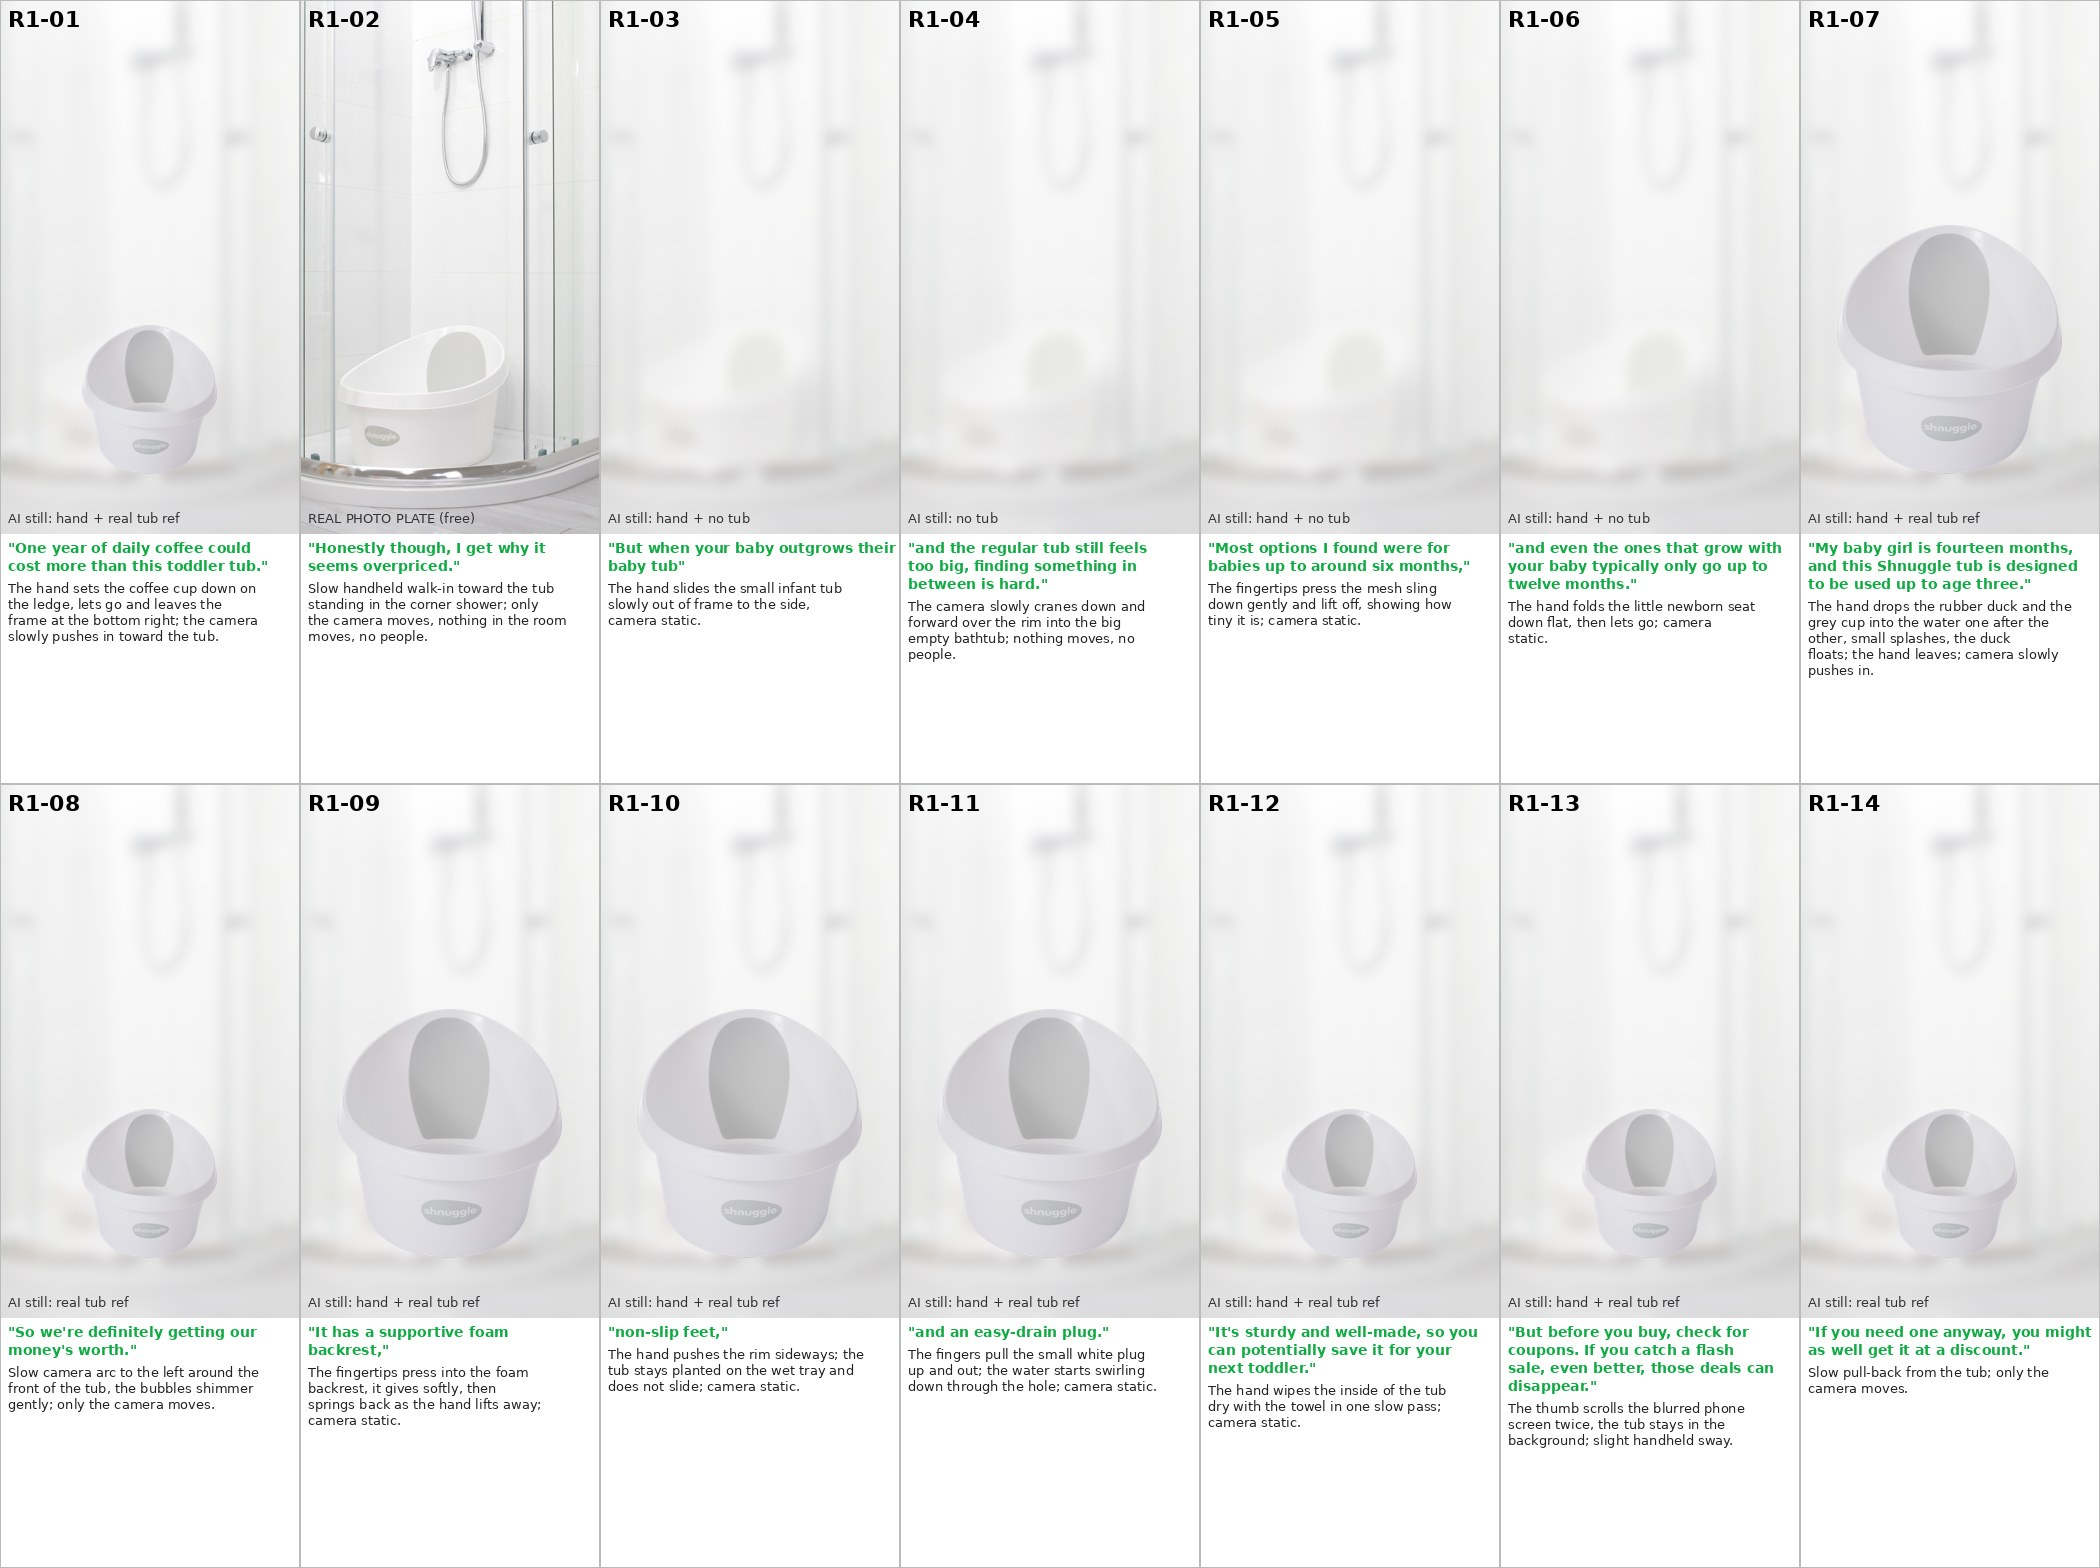
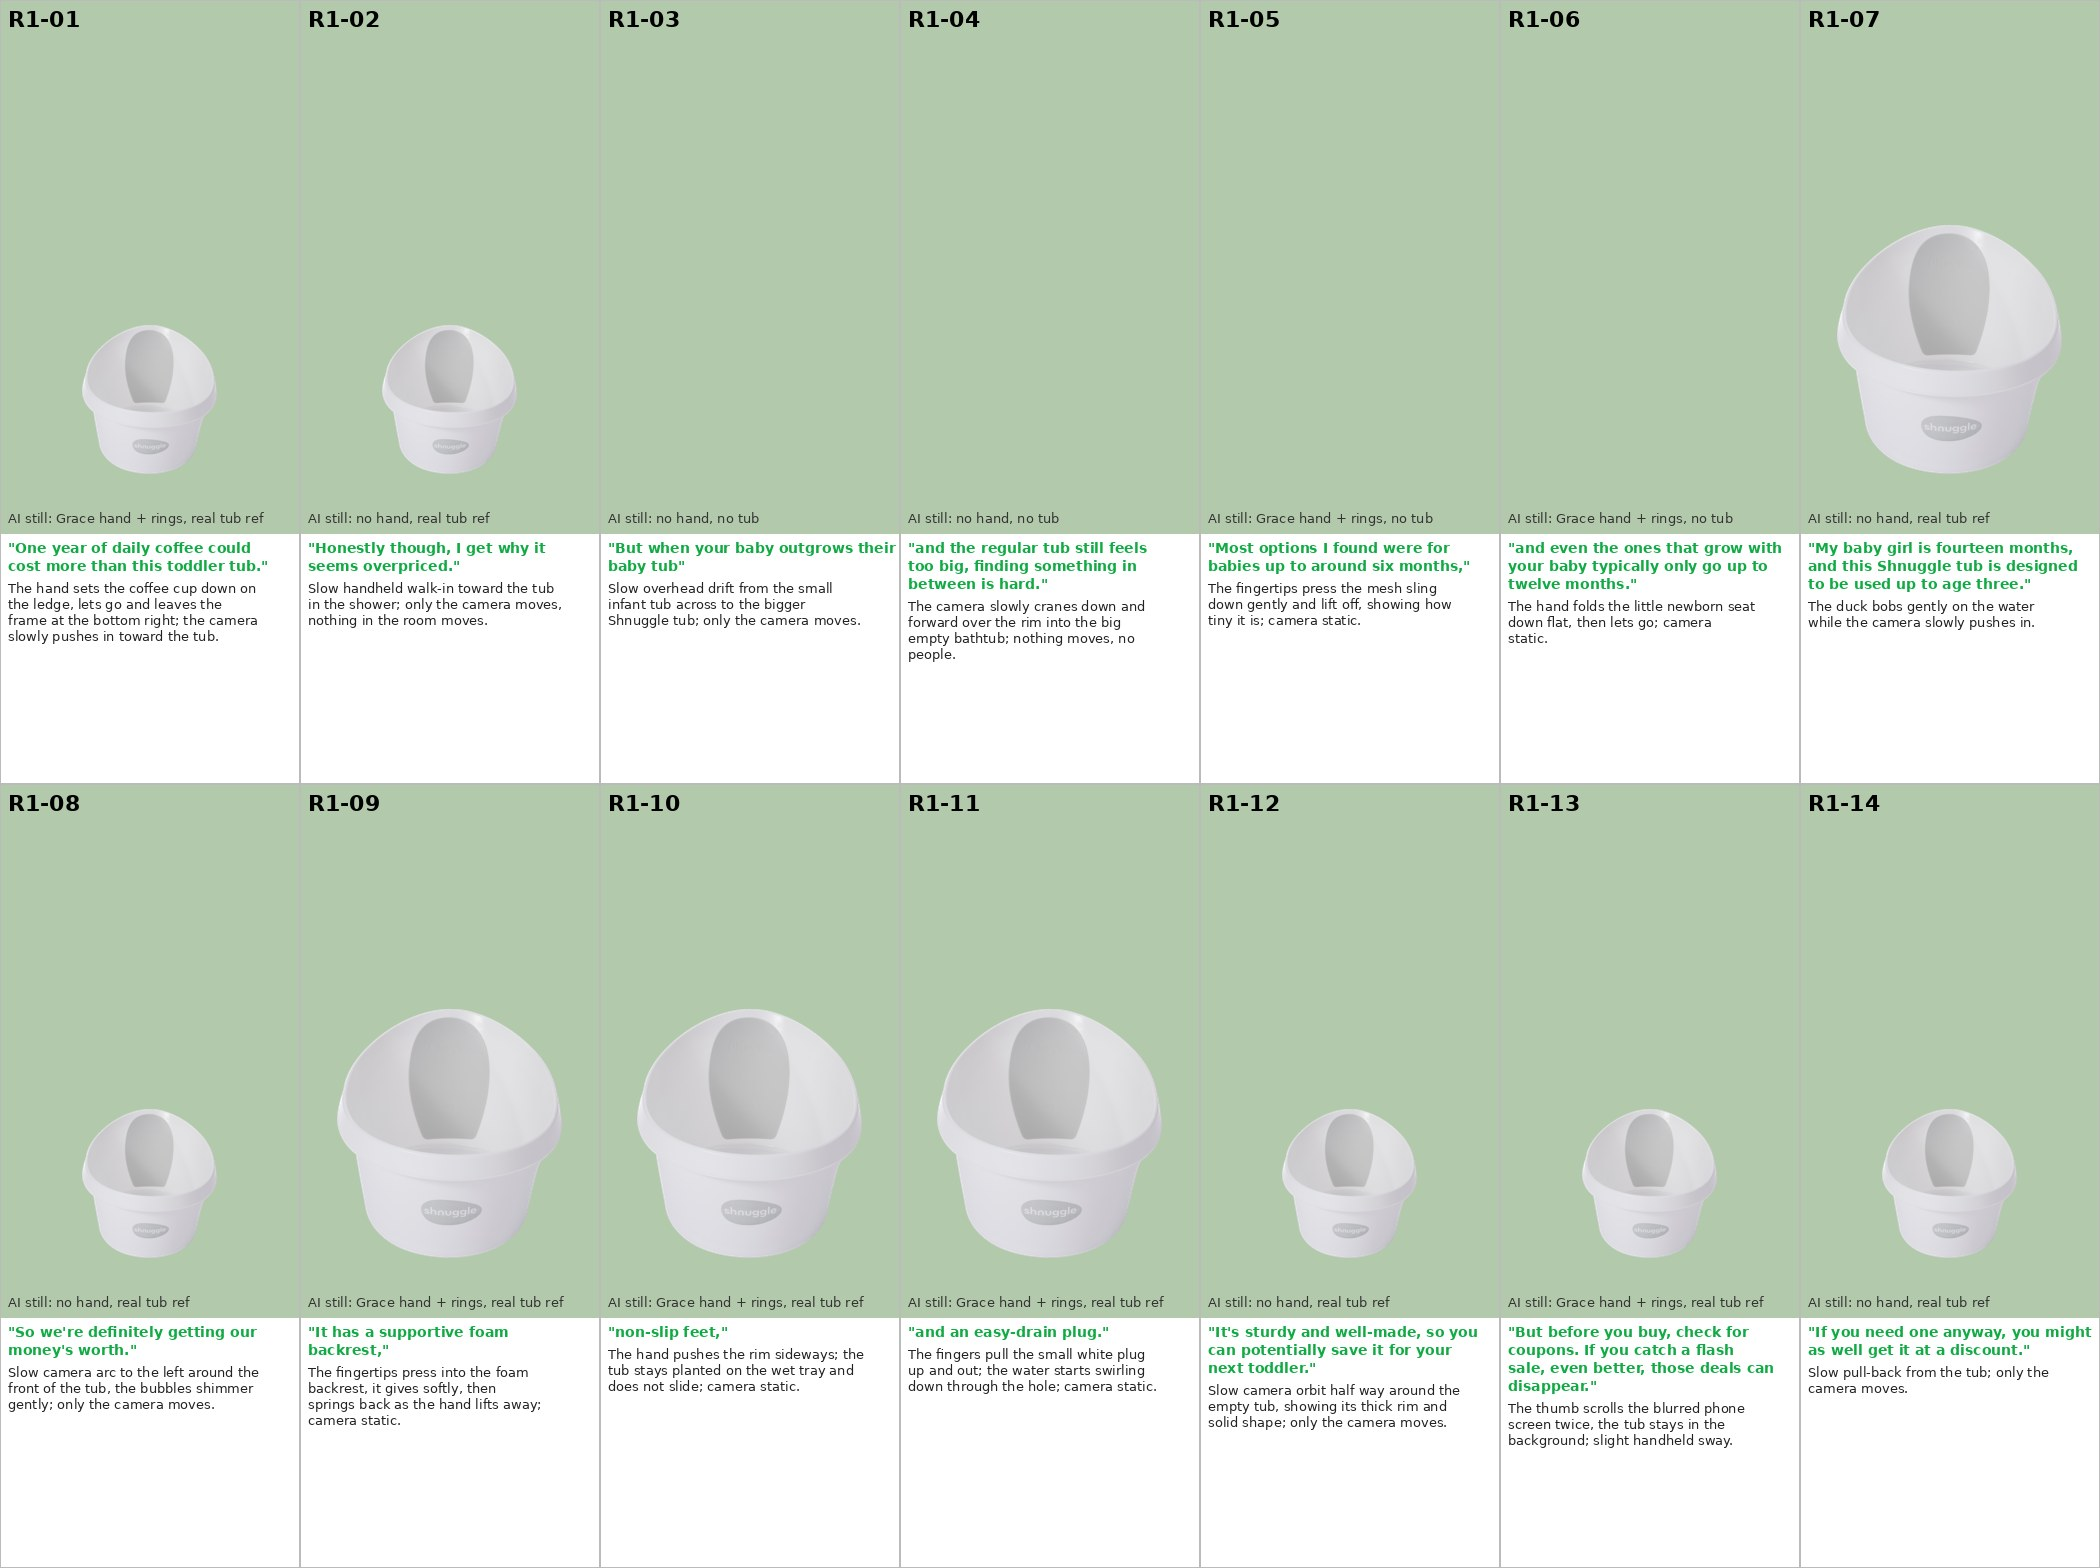
Shnuggle response: Ralph's answers (Grace B, birthstone-ring hands, coloured bathrooms, minimal hands), plan v2
Claude-Session: https://claude.ai/code/session_01Ji4aHTwHz9L4VKFF3t5yNL

diff --git a/ugc/shnuggle-response/tools/storyboard.py b/ugc/shnuggle-response/tools/storyboard.py
@@ -13,17 +13,17 @@ def crop916(im, cx=0.5):
     w, h = im.size; cw = int(h * 9 / 16); x = int(max(0, min(w - cw, cx * w - cw / 2))); return im.crop((x, 0, x + cw, h)).resize((W, H))
 for v, S in J["videos"].items():
     cols = 7; rows = (len(S) + cols - 1) // cols; sheet = Image.new("RGB", (W * cols, (H + T) * rows), "white"); d = ImageDraw.Draw(sheet)
-    base = Image.open(PLATE[v]).convert("RGB")
+    base = Image.new("RGB", (900, 1600), {"R1": (178, 201, 171), "R2": (236, 196, 196)}[v])
     for k, s in enumerate(S):
         x, y = (k % cols) * W, (k // cols) * (H + T)
         if s["src"].startswith("plate:"):
             p = crop916(Image.open(s["src"][6:]).convert("RGB")); tag = "REAL PHOTO PLATE (free)"
         else:
-            p = crop916(base).filter(ImageFilter.GaussianBlur(6)); p = Image.blend(p, Image.new("RGB", p.size, "white"), 0.45)
+            p = crop916(base)
             if s["prod"]:
                 sc = 0.75 if any(w in s["still"].lower() for w in ("close-up", "low angle")) else 0.45
                 c = cut.resize((int(W * sc), int(W * sc * cut.height / cut.width))); p.paste(c, ((W - c.width) // 2, H - c.height - 60), c)
-            tag = "AI still: " + ("hand + " if s["hand"] else "") + ("real tub ref" if s["prod"] else "no tub")
+            tag = "AI still: " + ("Grace hand + rings, " if s["hand"] else "no hand, ") + ("real tub ref" if s["prod"] else "no tub")
         sheet.paste(p, (x, y)); d.rectangle([x, y, x + W - 1, y + H + T - 1], outline="#bbb")
         d.text((x + 8, y + 6), s["id"], font=ImageFont.truetype(FB, 22), fill="black")
         d.text((x + 8, y + H - 24), tag, font=ImageFont.truetype(F, 13), fill="#333")

diff --git a/ugc/shnuggle-response/PLAN.md b/ugc/shnuggle-response/PLAN.md
@@ -28,30 +28,27 @@ Only formatting changed: the R1 dash becomes a pause, "1–3" is written "one to
 2. Neither script ends with "It's in the orange cart." Kept as written.
 3. R1 CTA "flash sale... those deals can disappear... get it at a discount" and the coffee hook are deal/price talk without a number. Allowed by the playbook; TikTok has carded price talk before.
 
-## 4. Look
-- Hands: Grace's medium-brown hand and wrist from the frame edge, short natural nails with a clear finish, **no bracelets and no other jewellery**, mauve-taupe knit sweater cuff (as in her video). Hands grip what they touch. No face.
-- **No child on screen** (we don't generate babies). The baby is told by props: rubber duck, hooded towel, a small infant tub for "baby tub".
-- R1 setting: bright white bathroom with a corner walk-in shower, tub on the shower tray. R2 setting: bright bathroom with a white claw-foot bath, tub inside it. Different rooms, shots, order and grade (R1 bright cool-neutral, R2 clean neutral), no shared footage. No on-screen text.
-- The tub comes from Shnuggle's real photos as references (plus two real photo plates, free); the grey logo badge gets the real pixels pasted back where it shows (free).
+## 4. Look (updated with Ralph's answers, 2026-10-16)
+- Voice: Grace B (eleven_v4).
+- Hands: Grace's hands from the ThunderFit job: medium-brown skin, pink French-tip nails, the sky-blue birthstone silicone ring on the ring finger and the small gold ring, **no bracelets**. Hand and wrist from the frame edge, gripping what they touch, no face.
+- **Hands only where something is shown or described** (Ralph): R1 coffee cup, newborn sling, fold-down seat, backrest, feet, plug, phone (7 of 14); R2 towel reveal, infant tub, backrest, feet, plug (5 of 14). Every other shot is hand-free with a camera move.
+- **Coloured bathrooms for contrast, no white background** (Ralph): R1 sage-green tiles with a corner walk-in shower; R2 blush-pink tiles with a white claw-foot bath. Bright, neutral daylight, no yellow or dark looks. The two white-room real photos are dropped, so those 2 shots become stills (+$0.18).
+- **No child on screen** (we don't generate babies): props carry the baby (duck, whale toy, hooded towel, a small infant tub for "baby tub").
+- R1 and R2 share no footage. No on-screen text. The tub comes from Shnuggle's real photos as references; the grey logo badge gets real pixels pasted back where it shows (free).
 
-## 5. Shot lists (the free layout boards show each one: storyboard/R1_storyboard.jpg, R2_storyboard.jpg)
-**R1:** coffee cup set down beside the tub / walk-in to the tub in the shower (real photo) / hand slides an infant tub away / crane into a huge empty bathtub / fingertips press a tiny newborn sling / hand folds a newborn seat flat / duck and cup dropped into the water / slow arc round the bubbly tub / fingers press the foam backrest / hand pushes the rim, tub stays put on the wet tray / plug pulled, water drains / towel wipes the tub dry / thumb scrolls a blurred phone, tub behind / pull-back on the tub with duck and hooded towel.
-**R2:** towel pulled off to reveal the tub in the claw-foot bath / infant tub set down and pushed aside / overhead drift over the empty big bath / push-in on the tub in the bath (real photo) / whale toy set on the rim / infant tub lifted onto a shelf / high wide showing the size difference / hand shower fills the tub, bubbles / fingertips test the water / thumb runs down the backrest / hand nudges the rim, tub stays / plug pulled, water swirls / hooded towel laid on the rim / pull-back.
+## 5. Shot lists (free layout boards: storyboard/R1_storyboard.jpg, R2_storyboard.jpg; hand-free shots marked "no hand")
+**R1:** coffee cup set down beside the tub / walk-in to the tub in the shower / overhead drift from a tiny infant tub to the Shnuggle / crane into a huge empty bathtub / fingertips press a tiny newborn sling / hand folds a newborn seat flat / duck bobbing in the water / slow arc round the bubbly tub / fingers press the foam backrest / hand pushes the rim, tub stays put on the wet tray / plug pulled, water drains / slow orbit round the empty tub / thumb scrolls a blurred phone, tub behind / pull-back on the tub with duck and hooded towel.
+**R2:** towel pulled off to reveal the tub in the claw-foot bath / infant tub set down and pushed aside / overhead drift over the empty big bath / push-in on the tub in the bath / push-in on a whale toy on the rim / pan to the infant tub stored on a shelf / high wide showing the size difference / tap fills the tub, bubbles / push-in over the seat bump under water / thumb runs down the backrest / hand nudges the rim, tub stays / plug pulled, water swirls / slide past the hooded towel on the rim / pull-back.
 
 ## 6. Order of work
 1. Grace B voiceover for both + speech-to-text stutter check. 2. ONE still first (the riskiest: plug pull, hand + small part), checked at full size, then the other stills built off it, shown to you as the real still storyboard **before any video spend**. 3. ONE test clip (the plug pull) with every check, then the rest. 4. Cut, QC (hands, 2x edge zoom, first second, product unchanged, no text, no child, REMOVED.md), compare vs the top winner, AI finish (20% grain, 20% sharpness, saturation down a little). 5. Drive "Grace Tiktok assets" / "Shnuggle Toddler Tub (Grace)": CURRENT R1 + R2 + script doc, then email you.
 Time: about 2 hours of work after your OK, plus your still review.
 
-## 7. Cost (one total)
+## 7. Cost (one total, updated)
 | Item | Qty x unit | $ |
 |---|---|---|
-| Stills (Nano Banana Pro, Kie) | 26 x $0.09 | 2.34 |
+| Stills (Nano Banana Pro, Kie) | 28 x $0.09 | 2.52 |
 | Clips (Seedance 2.0 Mini, Kie, 720p) | 123 s x $0.041 | 5.04 |
-| **Kie total** | | **7.38** |
-| ElevenLabs Grace B | ~1,570 characters (from your plan, not $) | |
-Contingency: any redo is asked separately with its exact cost.
-**Kie balance now is $4.37 (873 credits): it covers the voiceover-independent stills and the test clip, but about $3.10 more (≈620 credits) is needed before the clip batch.**
-
-## 8. Questions
-1. Voice: Grace B AI voiceover (my default) or will Grace record these herself?
-2. Hand: no bracelets and no rings either (my default), short clear nails, her mauve sweater cuff. OK?
+| **Kie total** | | **7.56** |
+| ElevenLabs Grace B | ~1,570 characters | |
+Any redo is asked separately with its exact cost. Kie balance $4.37: about $3.30 more is needed before the clip batch.

diff --git a/ugc/shnuggle-response/README.md b/ugc/shnuggle-response/README.md
@@ -1,3 +1,3 @@
 # Shnuggle toddler tub response videos (Grace), 2026-10-16
 Two hands-only AI replies to comments on Grace's Shnuggle video (@shewiththeglow 7692132082188946719): R1 "over priced", R2 "just the right size". Grace's scripts word for word (Ralph). Plan: PLAN.md. Shots: shots.json. Research: research/. Gates: GATES.md.
-Status: PLAN SENT 2026-10-16, waiting on Ralph's approval + 2 questions (voice, rings). $0 spent. Quote Kie $7.38 (balance $4.37, needs ~$3.10 top-up before the clip batch) + ~1,570 ElevenLabs chars.
+Status: PLAN v2 2026-10-16 (Ralph: Grace B voice, birthstone-ring hands, sage-green R1 / blush-pink R2 bathrooms, minimal hands). Waiting on OK for the new total Kie $7.56 + ~1,570 ElevenLabs chars; Kie balance $4.37 needs ~$3.30 top-up before clips. $0 spent.
